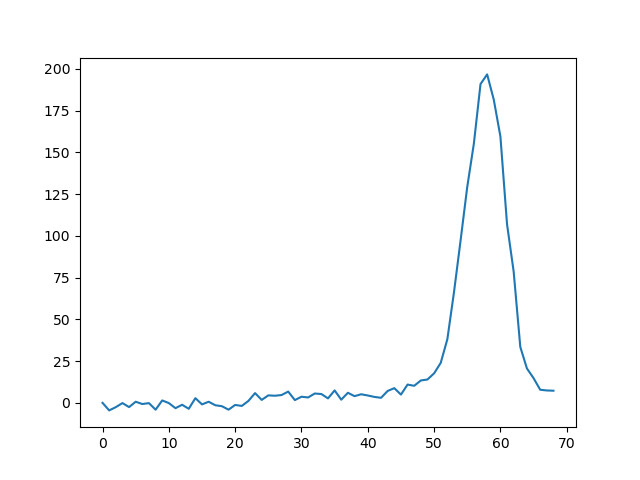
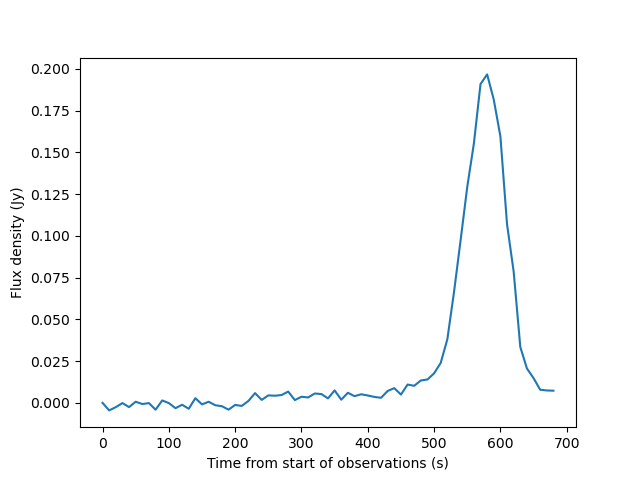
Updated some info relating to VAST lightcurve

diff --git a/vast/parse_askap1.py b/vast/parse_askap1.py
@@ -2,9 +2,11 @@ import numpy as np
 import matplotlib.pyplot as plt
 
 pulse_diff = np.loadtxt('askap1-mpath.txt')
-pulse = np.cumsum(pulse_diff)
+pulse = np.cumsum(pulse_diff) / 1e3  # Because the ULP site expects Jy, not mJy
 
 np.savetxt('askap1-I.txt', pulse)
 
-plt.plot(pulse)
+plt.plot(np.arange(len(pulse))*10, pulse)
+plt.xlabel("Time from start of observations (s)")
+plt.ylabel("Flux density (Jy)")
 plt.savefig('askap1-I.png')

diff --git a/vast/README.md b/vast/README.md
@@ -46,14 +46,29 @@ import numpy as np
 import matplotlib.pyplot as plt
 
 pulse_diff = np.loadtxt('askap1-mpath.txt')
-pulse = np.cumsum(pulse_diff)
+pulse = np.cumsum(pulse_diff) / 1e3  # Because the ULP site expects Jy, not mJy
 
 np.savetxt('askap1-I.txt', pulse)
 
-plt.plot(pulse)
+plt.plot(np.arange(len(pulse))*10, pulse)
+plt.xlabel("Time from start of observations (s)")
+plt.ylabel("Flux density (Jy)")
 plt.savefig('askap1-I.png')
 ```
 
 ![[vast/askap1-I.png]]
 
 The only thing to remember is that each time step is 10 seconds. But happily, the y-axis looks correct!
+
+The metadata needed for uploading to the ULP website (https://ulp.duckdns.org/data/timing/lightcurve_add/10) is summarised here:
+
+> [!ASKAP #1 metadata]
+> **Polarisations**: I
+> **Telescope**: ASKAP
+> **Frequency (MHz)**: 887.5
+> **Bandwidth (MHz)**: 288
+> **MJD of first sample**: 59965.03588541667 (= 2023-01-21T00:51:40.5 UTC)
+> **Duration of samples (s)**: 10
+> **DM used (pc/cm^3)**: 0
+> **DM referemce frequency (MHz)**: 887.5  (I *think*, since "DM used" is 0, that this doesn't matter...)
+> **Values (Jy)**: `askap1-I.txt`
